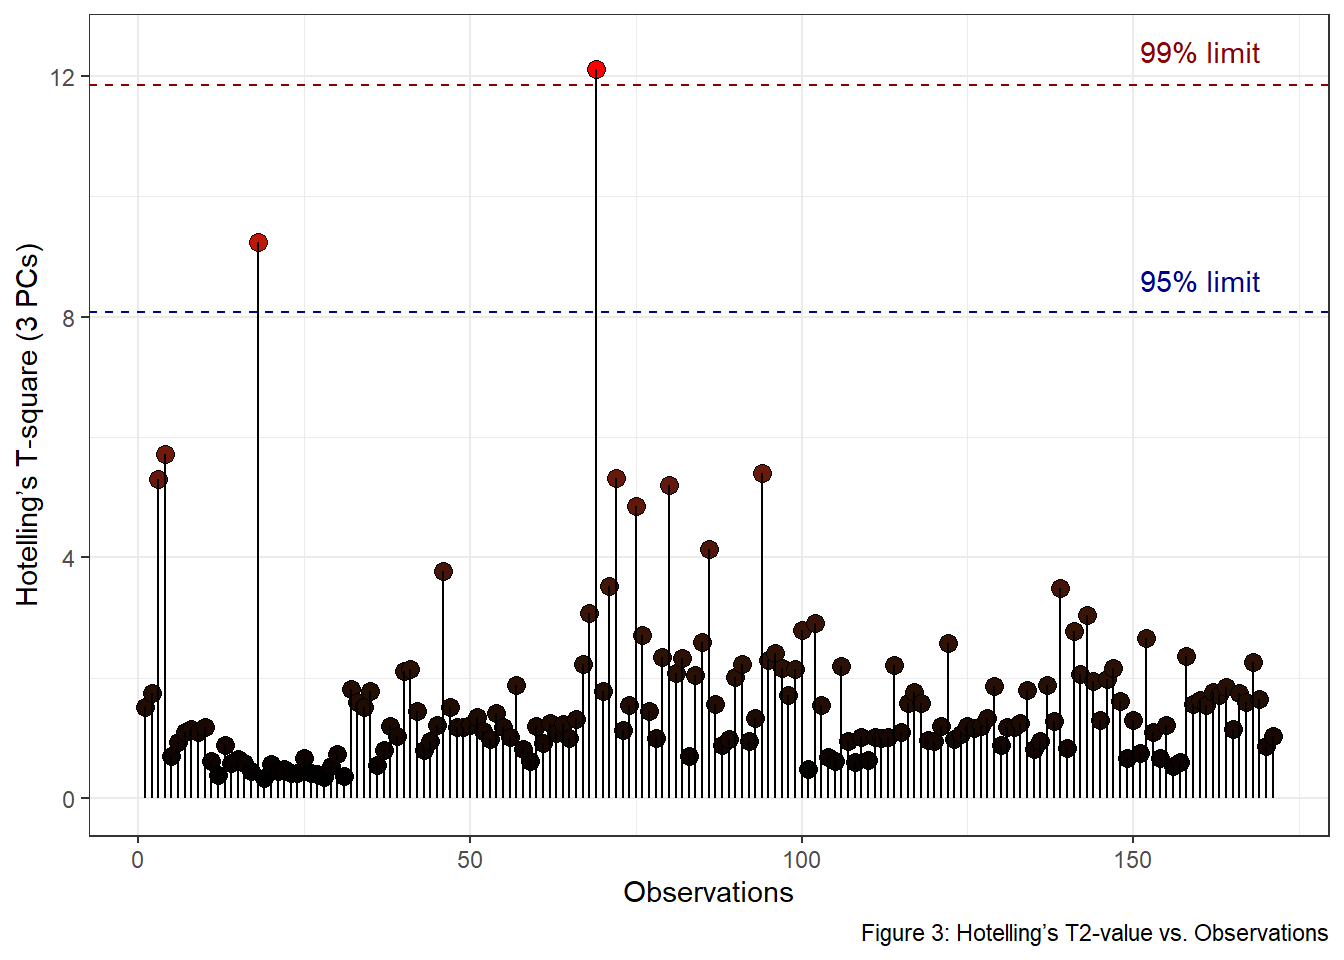
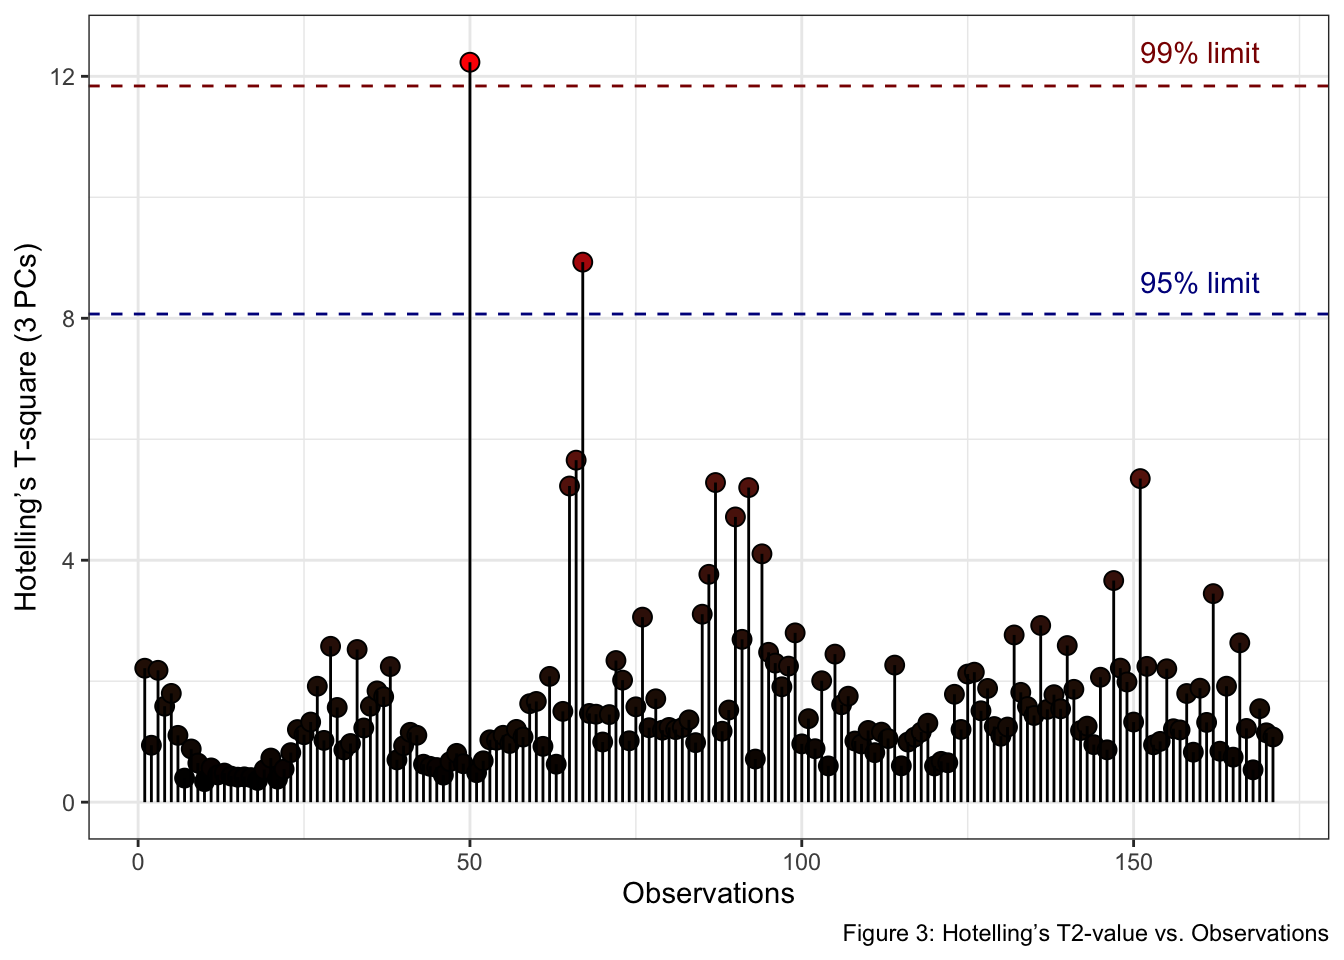
Updates

diff --git a/README.md b/README.md
@@ -2,7 +2,7 @@
 <!-- README.md is generated from README.Rmd. Please edit that file -->
 <!-- badges: start -->
 
-# HotellingEllipse <img src='man/figures/logo.png' align="right" height="159" />
+# HotellingEllipse <img src="man/figures/logo.png" align="right" height="159"/>
 
 [![Project Status: Active – The project has reached a stable, usable
 state and is being actively
@@ -16,6 +16,7 @@ status](https://www.r-pkg.org/badges/version/HotellingEllipse)](https://CRAN.R-p
 [![](https://cranlogs.r-pkg.org/badges/HotellingEllipse)](https://cran.r-project.org/package=HotellingEllipse)
 [![License:
 MIT](https://img.shields.io/badge/License-MIT-blue.svg)](https://opensource.org/licenses/MIT)
+
 <!-- badges: end -->
 
 `HotellingEllipse` computes the lengths of the semi-minor and semi-major
@@ -85,20 +86,20 @@ pca_scores <- pca_mod %>%
   pluck("ind", "coord") %>%
   as_tibble() %>%
   print()
-#> # A tibble: 171 x 5
-#>      Dim.1   Dim.2   Dim.3   Dim.4   Dim.5
-#>      <dbl>   <dbl>   <dbl>   <dbl>   <dbl>
-#>  1 144168. -36399.   2228.   -670.  13805.
-#>  2 118520. -31465.  16300. -20686. -13872.
-#>  3  90303. -28356.  31340. -60615.  15157.
-#>  4 107107. -38209.  24897. -60366.  19449.
-#>  5  74350.  -2148.  29814.  -8351.    494.
-#>  6  97511. -17932.  22254. -15406.  -4195.
-#>  7  82142.  19297. -34299. -12498.   -648.
-#>  8  76261.  16566. -34382. -16293.    137.
-#>  9  73705.  31091. -22577. -17182.   2438.
-#> 10  68042.  25124. -26063. -19389.   6051.
-#> # ... with 161 more rows
+#> # A tibble: 171 × 5
+#>      Dim.1   Dim.2   Dim.3   Dim.4    Dim.5
+#>      <dbl>   <dbl>   <dbl>   <dbl>    <dbl>
+#>  1  14959.  -6726. -23825.  -2635. -30343. 
+#>  2  37177. -16610. -14912.   8591. -17120. 
+#>  3 109909. -48972.  38185. -11120.   2845. 
+#>  4  10815.  49283.  18459.  -5409. -15114. 
+#>  5 115992. -31406. -16042. -20505. -14349. 
+#>  6  80481.  19867.  34014. -12234.    -42.8
+#>  7  48511.  16542.   5560. -11718.   5443. 
+#>  8 121815. -23423. -13403.  -8714.   3183. 
+#>  9  96442. -17904. -13306.  -5513.   7043. 
+#> 10  60801. -12077. -16888.   1918.   2769. 
+#> # … with 161 more rows
 ```
 
 **Step 5.** Run `ellipseParam()` for the first two principal components
@@ -114,13 +115,13 @@ res_2PCs <- ellipseParam(data = pca_scores, k = 2, pcx = 1, pcy = 2)
 ``` r
 str(res_2PCs)
 #> List of 4
-#>  $ Tsquare     : tibble [171 x 1] (S3: tbl_df/tbl/data.frame)
-#>   ..$ value: num [1:171] 2.28 2.65 8 8.63 1.05 ...
-#>  $ Ellipse     : tibble [1 x 4] (S3: tbl_df/tbl/data.frame)
-#>   ..$ a.99pct: num 319536
-#>   ..$ b.99pct: num 91816
-#>   ..$ a.95pct: num 256487
-#>   ..$ b.95pct: num 73699
+#>  $ Tsquare     : tibble [171 × 1] (S3: tbl_df/tbl/data.frame)
+#>   ..$ value: num [1:171] 3.34 1.42 3.29 2.39 2.71 ...
+#>  $ Ellipse     : tibble [1 × 4] (S3: tbl_df/tbl/data.frame)
+#>   ..$ a.99pct: num 310423
+#>   ..$ b.99pct: num 91576
+#>   ..$ a.95pct: num 249172
+#>   ..$ b.95pct: num 73506
 #>  $ cutoff.99pct: num 9.52
 #>  $ cutoff.95pct: num 6.14
 ```
@@ -160,9 +161,9 @@ coord_2PCs_90 <- ellipseCoord(data = pca_scores, pcx = 1, pcy = 3, conf.limit = 
 
 ``` r
 str(coord_2PCs_99)
-#> tibble [500 x 2] (S3: tbl_df/tbl/data.frame)
-#>  $ x: num [1:500] 319536 319510 319434 319308 319131 ...
-#>  $ y: num [1:500] -1.73e-12 9.88e+02 1.98e+03 2.96e+03 3.95e+03 ...
+#> tibble [500 × 2] (S3: tbl_df/tbl/data.frame)
+#>  $ x: num [1:500] 310423 310398 310324 310201 310029 ...
+#>  $ y: num [1:500] -1.06e-11 9.87e+02 1.97e+03 2.96e+03 3.95e+03 ...
 ```
 
 **Step 6.** Plot PC1 *vs.* PC2 scatterplot, with the two corresponding
@@ -217,8 +218,8 @@ res_3PCs <- ellipseParam(data = pca_scores, k = 3)
 ``` r
 str(res_3PCs)
 #> List of 3
-#>  $ Tsquare     : tibble [171 x 1] (S3: tbl_df/tbl/data.frame)
-#>   ..$ value: num [1:171] 1.51 1.757 5.299 5.722 0.697 ...
+#>  $ Tsquare     : tibble [171 × 1] (S3: tbl_df/tbl/data.frame)
+#>   ..$ value: num [1:171] 2.215 0.941 2.18 1.586 1.798 ...
 #>  $ cutoff.99pct: num 11.8
 #>  $ cutoff.95pct: num 8.07
 ```
